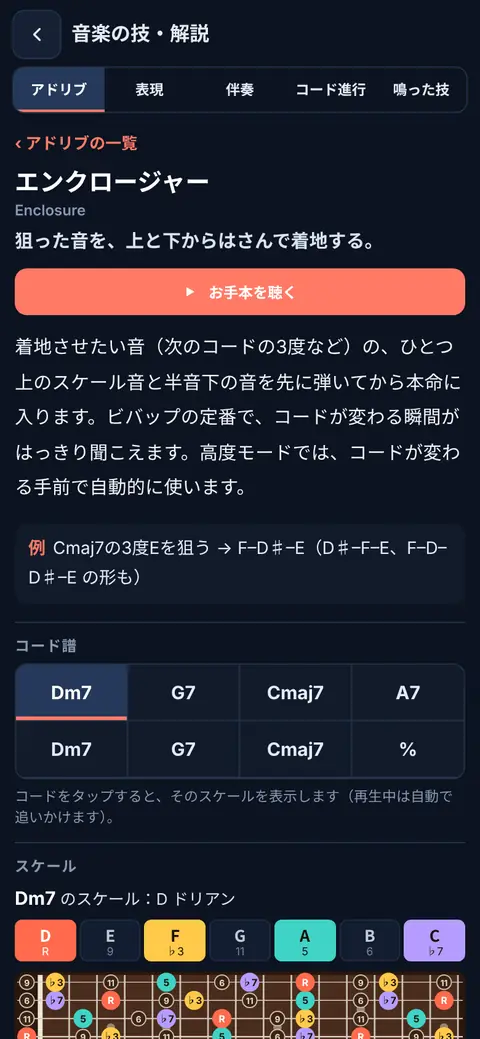
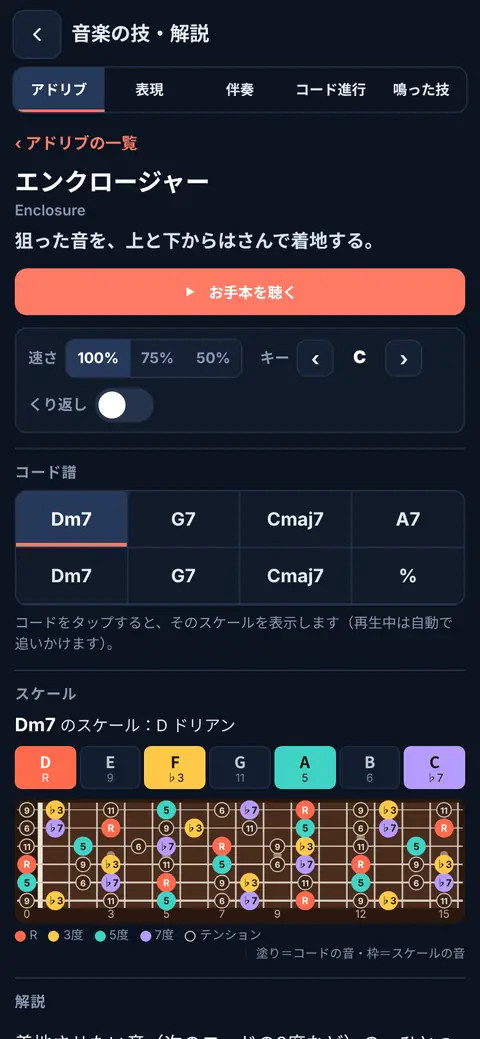
解説：再生中の追いかけを修正（指板で鳴った音も光る）、速さ（スロー）・キー変更・くり返し、コード譜とスケールを上に
Claude-Session: https://claude.ai/code/session_015cpHZimv5DHA1eE12hjV5T

diff --git a/index.html b/index.html
@@ -138,8 +138,8 @@ button:focus-visible,input:focus-visible,select:focus-visible{outline:3px solid 
 .leg .f-r{background:var(--fr)}.leg .f-3{background:var(--f3)}.leg .f-5{background:var(--f5)}.leg .f-7{background:var(--f7)}.leg .f-t{border:1.5px solid #cdbfa8}
 .leg .lx{margin-left:auto}.leg .lx::before{content:"｜";color:var(--line)}
 .fb{display:block;width:100%;height:auto;border-radius:8px;margin-bottom:6px}
-#fbSvg g{transform-box:fill-box;transform-origin:center;transition:transform .08s}
-#fbSvg g.hit{transform:scale(1.5)}#fbSvg g.hit circle{stroke:#ffd166;stroke-width:3}
+#fbSvg g,#gdFb g{transform-box:fill-box;transform-origin:center;transition:transform .08s}
+#fbSvg g.hit,#gdFb g.hit{transform:scale(1.5)}#fbSvg g.hit circle,#gdFb g.hit circle{stroke:#ffd166;stroke-width:3}
 .scs{display:grid;grid-template-columns:repeat(4,minmax(0,1fr));gap:4px}
 @media (max-height:760px){.scs button{height:30px}.sch .btn,.sch .seg button{height:34px}}
 .scs button{position:relative;height:34px;border:1px solid var(--line);background:var(--card);border-radius:8px;font-size:10.5px;font-weight:700;padding:0 3px;letter-spacing:-.02em;line-height:1.1;white-space:nowrap;overflow:hidden;text-overflow:ellipsis}
@@ -370,6 +370,10 @@ body.recording .sheet{pointer-events:none}
 .gtext{font-size:15px;line-height:1.9;color:#eef2f8;margin:12px 0;letter-spacing:.01em}
 .gdt .gx{font-size:14px;line-height:1.7;background:var(--paper);border-radius:10px;padding:9px 11px;color:var(--ink)}.gdt .gx b{color:var(--red);margin-right:6px}
 .gsec{border-top:1px solid var(--line);padding-top:10px;margin-top:12px}
+.gctl{display:flex;flex-wrap:wrap;gap:8px 14px;align-items:center;margin:10px 0 4px;padding:8px 10px;border:1px solid var(--line);border-radius:10px;background:var(--paper)}
+.gctl>div{display:flex;align-items:center;gap:6px;font-size:12px;font-weight:700;color:var(--mute)}
+.gseg{display:inline-flex;border:1px solid var(--line);border-radius:8px;overflow:hidden}.gseg button{border:0;background:var(--card);color:var(--mute);font-size:12px;font-weight:700;padding:6px 9px}.gseg button[aria-pressed=true]{background:var(--sel);color:#fff}
+.gkey{display:inline-flex;align-items:center;gap:4px}.gkey button{width:30px;height:30px;border-radius:8px;border:1px solid var(--line);background:var(--card);color:var(--ink);font-size:16px;font-weight:700}.gkey b{min-width:34px;text-align:center;color:#fff;font-size:14px}
 .glbl{display:flex;align-items:center;justify-content:space-between;gap:8px;font-size:12px;font-weight:700;color:var(--mute);letter-spacing:.06em;margin-bottom:6px}
 .gcv{display:inline-flex;border:1px solid var(--line);border-radius:8px;overflow:hidden}.gcv button{border:0;background:var(--card);color:var(--mute);font-size:11.5px;font-weight:700;padding:5px 10px}.gcv button[aria-pressed=true]{background:var(--sel);color:#fff}
 .gbars{display:grid;grid-template-columns:repeat(4,minmax(0,1fr));border:1px solid var(--line);border-radius:10px;overflow:hidden;background:var(--paper)}
@@ -2805,14 +2809,16 @@ function setPlaying(i) {
   updateStage();
 }
 function setDot(b) { document.querySelectorAll('#dots i').forEach((d, k) => { d.className = k === b ? (k === 0 ? 'on one' : 'on') : ''; }); }
+// 画面の動きは、実際に耳に届く時刻（出力の遅れぶん後ろ）に合わせる
+const outLat = () => { const c = A.ctx; return c ? Math.min(.4, c.outputLatency || c.baseLatency || 0) : 0; };
 function frame() {
   if (!A.ctx) return;
-  const now = A.ctx.currentTime;
+  const now = A.ctx.currentTime - outLat();
   while (P.vis.length && P.vis[0].time <= now) {
     const v = P.vis.shift();
     if (v.stop) { stop(); return; }
     if (v.tech) { techShow(v.tech); continue; }
-    if (DM.cur) continue;
+    if (DM.cur) { if (v.note != null) hitNote(v.note, v.dur); continue; }
     if (v.note != null) { hitNote(v.note, v.dur); continue; }
     if (v.i !== P.curI) setPlaying(v.i);
     setDot(v.beat);
@@ -3453,13 +3459,14 @@ function techShow(e) {
 function techHide() { clearTimeout(TECH.timer); const el = $('#techTick'); if (el) el.hidden = true; const st = $('#stTech'); if (st) st.textContent = ''; }
 
 /* ---------- お手本（解説ページの ▶） ---------- */
-const DCH = s => s.split(' ').map(tok => { const [c, d] = tok.split(':'); return {...TH.parse(c), dur:+(d || 4), v:null}; });
+const DCH = (s, n = 0) => s.split(' ').map(tok => { const [c, d] = tok.split(':'); const x = TH.parse(c); return {...x, root:mod(x.root + n), bass:x.bass != null ? mod(x.bass + n) : x.bass, pref:n ? null : x.pref, dur:+(d || 4), v:null}; });
+const DKEY = (k, n = 0) => ({t:mod((k || {t:0}).t + n), minor:!!(k && k.minor)});
 function demoStart(spec) {
   if (REC.on) { toast('録音中はお手本を鳴らせません'); return; }
   const go = () => {
     DM.saved = {key:S.key, bpm:S.bpm, loop:S.loop, cin:S.cin, melOn:S.melOn};
-    DM.cur = {...spec, chart:DCH(spec.prog)};
-    S.key = spec.key || {t:0, minor:false}; S.bpm = spec.bpm || 126; S.loop = false; S.cin = false; S.melOn = false;
+    DM.cur = {...spec, chart:DCH(spec.prog, spec.shift || 0)};
+    S.key = DKEY(spec.key, spec.shift || 0); S.bpm = spec.bpm || 126; S.loop = !!spec.loop; S.cin = false; S.melOn = false;
     spReset(); play(0); renderGuideBtns();
   };
   if (P.ui) { stop(); setTimeout(go, 540); } else go();
@@ -3471,7 +3478,7 @@ function demoEnd() {
 }
 if (/^(localhost|127\.0\.0\.1)$/.test(location.hostname)) window.__pro = {drum, drumSyn, DRB, prepDrums, sched, LOOK, A, SMP, smpNote, loadInst, pluck, ac, soloBar, rebuildTL, SP, S, P, TH, scaleInfo, segAt, segNextReal, planHarm, devBody, spanCtx, DEVS, TECH, DM, demoStart, soloBarPro};
 /* ===== 解説ページ：アドリブの技・表現・伴奏の技・コード進行の技（お手本つき） ===== */
-const GD = {open:false, tab:'solo', sel:null, ci:0, cv:'a', cache:{}};
+const GD = {open:false, tab:'solo', sel:null, ci:0, cv:'a', cache:{}, shift:0, rate:1, loop:false};
 const S1 = (prog, solo, o = {}) => ({a:{prog, solo, cmp:'easy', bpm:o.bpm || 132, rid:o.rid || 'swing', key:o.key}});
 const AB = (b, a, o = {}) => ({b:{prog:b, cmp:'easy', bpm:o.bpm || 120, rid:o.rid || 'swing', key:o.key}, a:{prog:a, cmp:'easy', bpm:o.bpm || 120, rid:o.rid || 'swing', key:o.key}});
 const CF = (prog, cf, o = {}) => ({b:{prog, cmp:'easy', bpm:o.bpm || 120, rid:o.rid || 'comp', key:o.key}, a:{prog, cmp:'pro', cforce:cf, bpm:o.bpm || 120, rid:o.rid || 'comp', key:o.key}, bl:'かんたん', al:'この技'});
@@ -3547,10 +3554,10 @@ function gitem(it) {
 // お手本の進行（「この技」の伴奏は、実際に技を入れた形を計算して見せる）
 function gdPieces(it, v) {
   const d = it.demo; if (!d) return null;
-  const sp = v === 'b' && d.b ? d.b : d.a, key = sp.key || {t:0, minor:false}, ck = it.id + v;
+  const sp = v === 'b' && d.b ? d.b : d.a, key = DKEY(sp.key, GD.shift), ck = it.id + v + GD.shift;
   if (DM.cur && DM.cur.gid === it.id && DM.cur.gv === v && P.hl && P.ui) return {key, live:true, list:P.hl.segs.map(s => ({ch:s.ch, start:s.start, len:s.len, tech:s.tech}))};
   if (GD.cache[ck]) return GD.cache[ck];
-  const chart = DCH(sp.prog);
+  const chart = DCH(sp.prog, GD.shift);
   let list = []; let pos = 0; chart.forEach(c => { list.push({ch:c, start:pos, len:c.dur}); pos += c.dur; });
   if (sp.cmp === 'pro' && !P.ui) {
     const keep = {cur:DM.cur, key:S.key};
@@ -3591,29 +3598,44 @@ function gdDetail(it) {
     <button class="gback" data-sel="">‹ ${esc(GTABS[it.tab])}の一覧</button>
     <h3>${esc(it.t)}<small>${esc(it.en)}</small></h3>
     <p class="gs">${esc(it.s)}</p>
-    ${btns ? `<div class="gb">${btns}</div>` : ''}
-    <p class="gtext">${esc(it.b)}</p>
-    ${it.ex ? `<p class="gx"><b>例</b>${esc(it.ex)}</p>` : ''}
+    ${btns ? `<div class="gb">${btns}</div>
+    <div class="gctl"><div><span>速さ</span><span class="gseg">${[[1, '100%'], [.75, '75%'], [.5, '50%']].map(([r, l]) => `<button data-rate="${r}" aria-pressed="${GD.rate === r}">${l}</button>`).join('')}</span></div>
+      <div><span>キー</span><span class="gkey"><button data-kshift="-1" aria-label="キーを下げる">‹</button><b>${esc(TH.keyName(DKEY((d.a.key), GD.shift)))}</b><button data-kshift="1" aria-label="キーを上げる">›</button></span></div>
+      <div><span>くり返し</span><button class="sw" data-gloop aria-pressed="${GD.loop}" aria-label="くり返し"></button></div></div>` : ''}
     ${pc ? `<div class="gsec"><div class="glbl">コード譜${d.b ? `<span class="gcv"><button data-cv="b" aria-pressed="${GD.cv === 'b'}">${esc(d.bl || '元の進行')}</button><button data-cv="a" aria-pressed="${GD.cv === 'a'}">${esc(d.al || 'この技')}</button></span>` : ''}</div>
       <div id="gdChart">${gdChart(pc, GD.ci)}</div>
       <p class="gnote">${pc.list.some(x => x.tech) ? '<i class="tqm"></i>は技で入れ替わったコード。' : ''}コードをタップすると、そのスケールを表示します（再生中は自動で追いかけます）。</p></div>
       <div class="gsec"><div class="glbl">スケール</div><div id="gdScale">${gdScale(pc, GD.ci)}</div></div>` : ''}
+    <div class="gsec"><div class="glbl">解説</div><p class="gtext">${esc(it.b)}</p></div>
+    ${it.ex ? `<p class="gx"><b>例</b>${esc(it.ex)}</p>` : ''}${GD.shift && d ? '<p class="gnote">解説の文章の音名は Key C での例です。コード譜とスケールは選んだキーで表示しています。</p>' : ''}
     <div class="gnav">${k > 0 ? `<button class="btn ghost" data-sel="${arr[k - 1].id}">‹ ${esc(arr[k - 1].t)}</button>` : '<span></span>'}${k < arr.length - 1 ? `<button class="btn ghost" data-sel="${arr[k + 1].id}">${esc(arr[k + 1].t)} ›</button>` : '<span></span>'}</div>
   </div>`;
 }
 // 再生中は、いま鳴っているコードをコード譜とスケールで追いかける
 function gdFollow() {
-  if (!GD.open || !GD.sel) return;
-  const it = GIDX[GD.sel];
+  if (!GD.open) { GD.follow = false; return; }
+  const it = GD.sel && GIDX[GD.sel];
   if (it && DM.cur && DM.cur.gid === it.id && P.ui && A.ctx) {
-    const pc = gdPieces(it, GD.cv), beat = (A.ctx.currentTime - P.t0) * S.bpm / 60;
+    const pc = gdPieces(it, GD.cv), tot = pc.list.length ? pc.list[pc.list.length - 1].start + pc.list[pc.list.length - 1].len : 1;
+    let beat = (A.ctx.currentTime - outLat() - P.t0) * S.bpm / 60;
     if (beat >= 0) {
+      if (S.loop) beat %= tot;
       let i = pc.list.findIndex(x => beat >= x.start - 1e-6 && beat < x.start + x.len - 1e-6); if (i < 0) i = GD.ci;
       const live = pc.live ? pc.list.map(x => TH.name(x.ch, pc.key) + x.start).join() : '';
       if (i !== GD.ci || live !== GD.lastLive) { GD.ci = i; GD.lastLive = live; const c = $('#gdChart'), s = $('#gdScale'); if (c) c.innerHTML = gdChart(pc, i); if (s) s.innerHTML = gdScale(pc, i); }
     }
   }
   requestAnimationFrame(gdFollow);
+}
+function gdPlay(it, v) {
+  const base = v === 'b' ? it.demo.b : it.demo.a;
+  demoStart({...base, gid:it.id, gv:v, shift:GD.shift, loop:GD.loop, bpm:Math.round((base.bpm || 126) * GD.rate)});
+}
+// 速さ・キー・くり返しを変えたら、鳴っているお手本はその設定で鳴らし直す
+function gdReplay() {
+  const it = GD.sel && GIDX[GD.sel], v = DM.cur && it && DM.cur.gid === it.id ? DM.cur.gv : null;
+  GD.ci = 0; renderGuide();
+  if (v) gdPlay(it, v);
 }
 function gcard(it) {
   const d = it.demo;
@@ -3654,7 +3676,7 @@ function openGuide(target) {
   GD.sel = it ? it.id : null; GD.ci = 0; GD.cv = 'a';
   GD.open = true; closeBS(); $('#guide').hidden = false; renderGuide();
   $('#gdBody').scrollTop = 0;
-  if (!was) requestAnimationFrame(gdFollow);
+  if (!GD.follow) { GD.follow = true; requestAnimationFrame(gdFollow); }
 }
 function closeGuide() { GD.open = false; $('#guide').hidden = true; if (DM.cur) stop(); }
 function setSoloLv(v) {
@@ -3675,7 +3697,7 @@ $('#gdBody').addEventListener('click', e => {
   if (d) {
     const it = GIDX[d.dataset.demo], v = d.dataset.v;
     if (DM.cur && DM.cur.gid === it.id && DM.cur.gv === v) { stop(); return; }
-    demoStart({...(v === 'b' ? it.demo.b : it.demo.a), gid:it.id, gv:v});
+    gdPlay(it, v);
     if (GD.sel === it.id && it.demo.b && GD.cv !== v) { GD.cv = v; GD.ci = 0; setTimeout(renderGuide, 700); }
     return;
   }
@@ -3683,6 +3705,9 @@ $('#gdBody').addEventListener('click', e => {
   if (sl) { const id = sl.dataset.sel; if (DM.cur && DM.cur.gid !== id) stop(); GD.sel = id || null; GD.ci = 0; GD.cv = 'a'; renderGuide(); $('#gdBody').scrollTop = 0; return; }
   const ci = e.target.closest('[data-gci]');
   if (ci) { GD.ci = +ci.dataset.gci; const it = GIDX[GD.sel], pc = gdPieces(it, GD.cv); $('#gdChart').innerHTML = gdChart(pc, GD.ci); $('#gdScale').innerHTML = gdScale(pc, GD.ci); return; }
+  const rt = e.target.closest('[data-rate]'); if (rt) { GD.rate = +rt.dataset.rate; gdReplay(); return; }
+  const ks = e.target.closest('[data-kshift]'); if (ks) { GD.shift = ((GD.shift + +ks.dataset.kshift) % 12 + 12) % 12; gdReplay(); return; }
+  const lp = e.target.closest('[data-gloop]'); if (lp) { GD.loop = !GD.loop; gdReplay(); return; }
   const cv = e.target.closest('[data-cv]');
   if (cv) { GD.cv = cv.dataset.cv; GD.ci = 0; renderGuide(); return; }
   const g = e.target.closest('[data-goto]'); if (g) { openGuide(g.dataset.goto); return; }

diff --git a/sw.js b/sw.js
@@ -1,5 +1,5 @@
 // コードナビ service worker（オフライン用キャッシュ）
-const V = 'chordnavi-08749e39f9';
+const V = 'chordnavi-047448ef78';
 const CORE = ["./", "help/h_adl.webp", "help/h_cand.webp", "help/h_dock.webp", "help/h_guide.webp", "help/h_input.webp", "help/h_lib.webp", "help/h_main.webp", "help/h_rec.webp", "help/h_review.webp", "help/h_scale.webp", "help/h_set.webp", "help/h_song.webp", "help/h_stage.webp", "help/h_voicing.webp", "help/h_wall.webp", "icons/icon-180.png", "icons/icon-192.png", "icons/icon-512.png", "icons/icon-maskable-512.png", "index.html", "manifest.webmanifest", "sounds/bass-ac.json", "sounds/bass-el.json", "sounds/gtr-clean.json", "sounds/gtr-jazz.json", "sounds/gtr-nylon.json", "sounds/gtr-steel.json", "sounds/vibes.json", "vendor/lame.min.js", "vendor/mp4-muxer.js", "vendor/rec-worklet.js", "vendor/webm-muxer.js"];
 self.addEventListener('install', e => { e.waitUntil(caches.open(V).then(c => c.addAll(CORE)).then(() => self.skipWaiting())); });
 self.addEventListener('activate', e => { e.waitUntil(caches.keys().then(ks => Promise.all(ks.filter(k => k.startsWith('chordnavi-') && k !== V).map(k => caches.delete(k)))).then(() => self.clients.claim())); });
